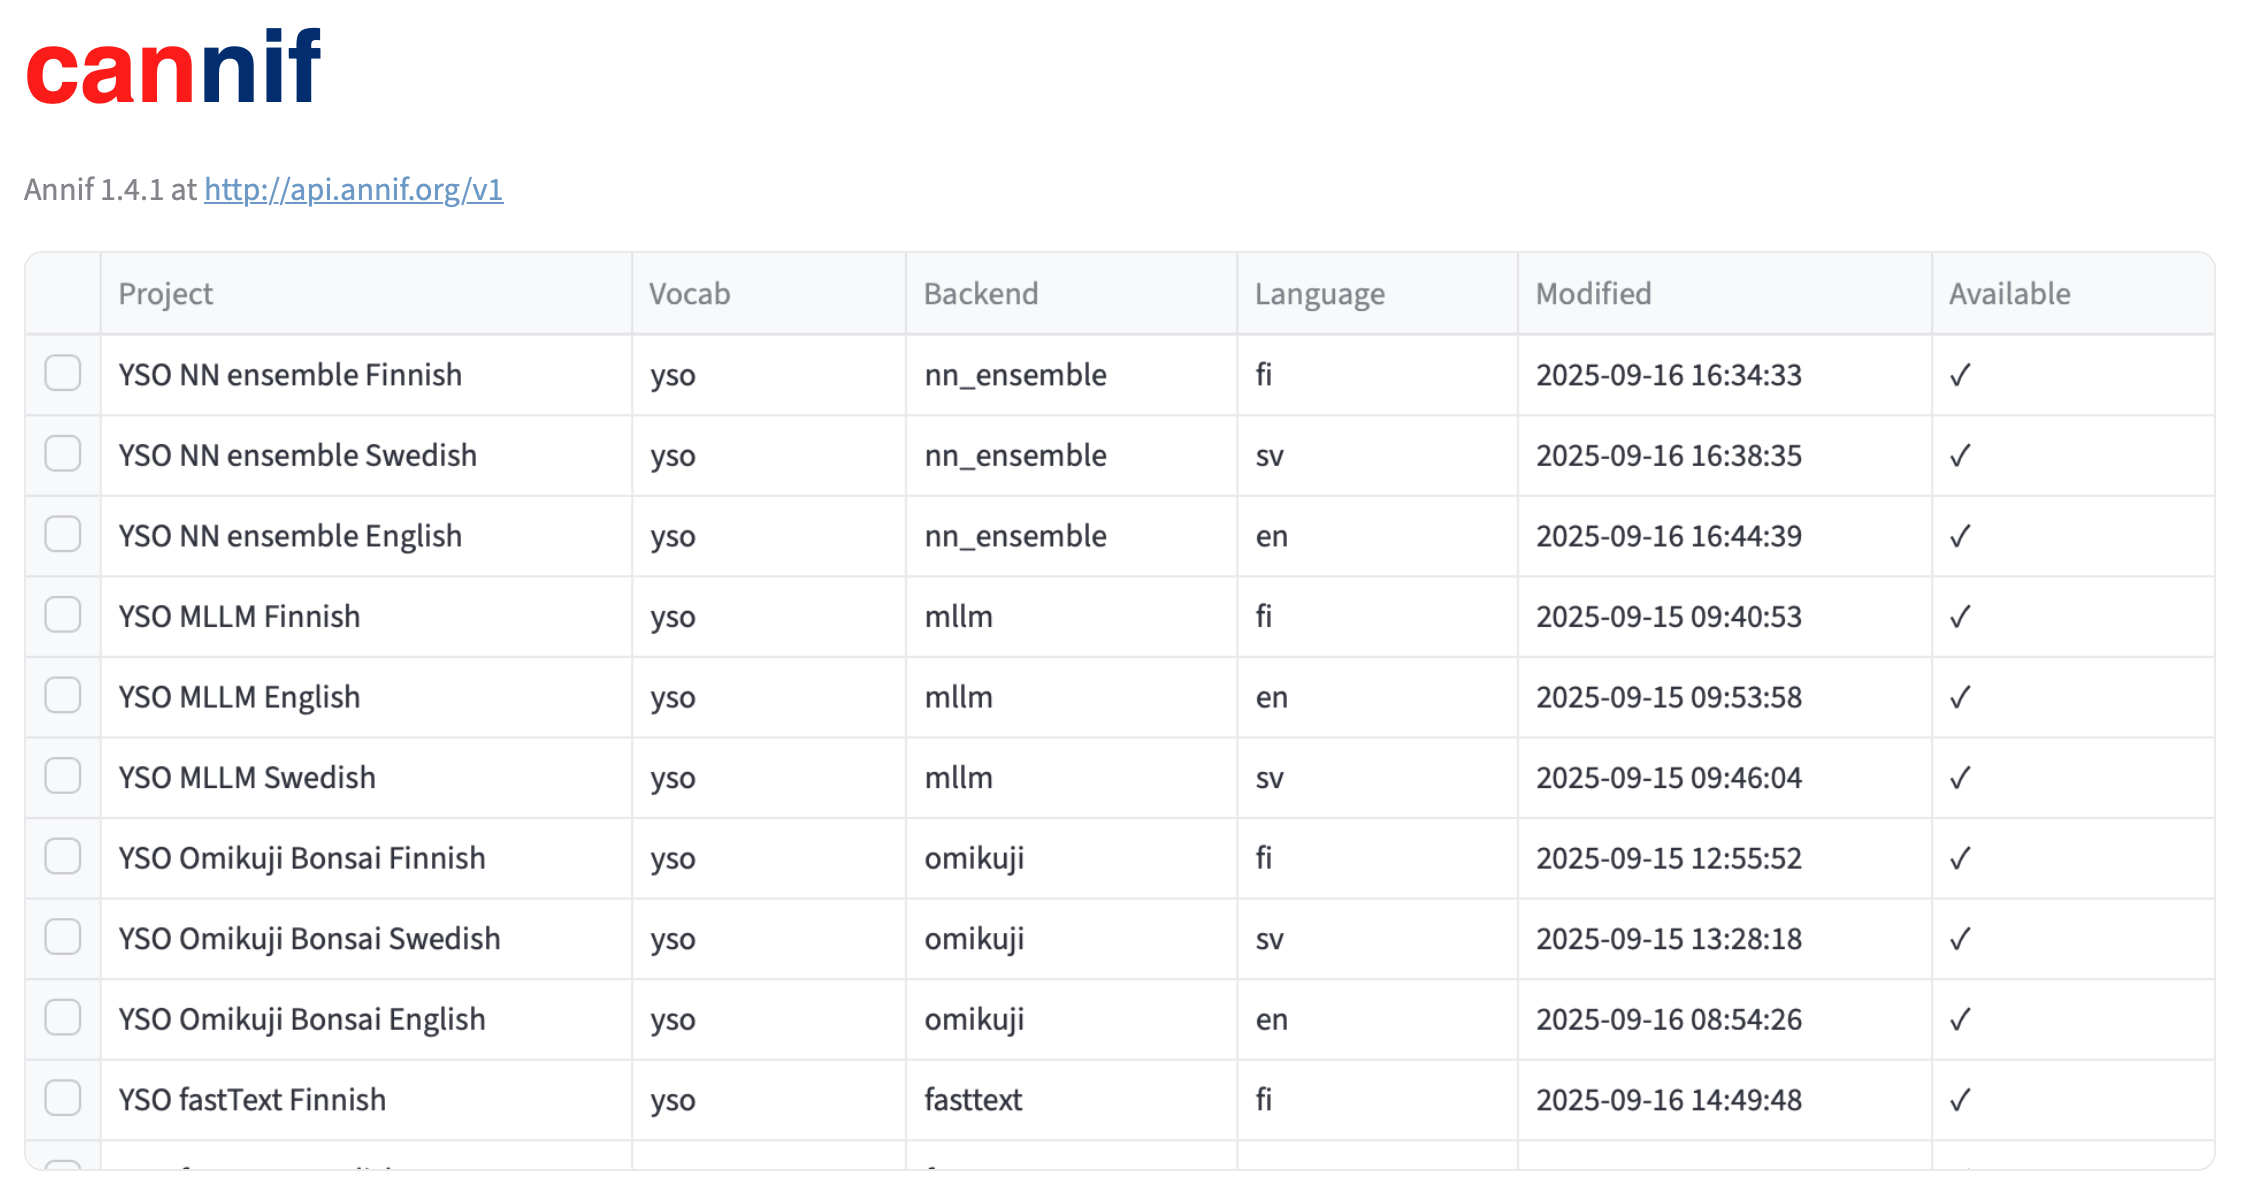
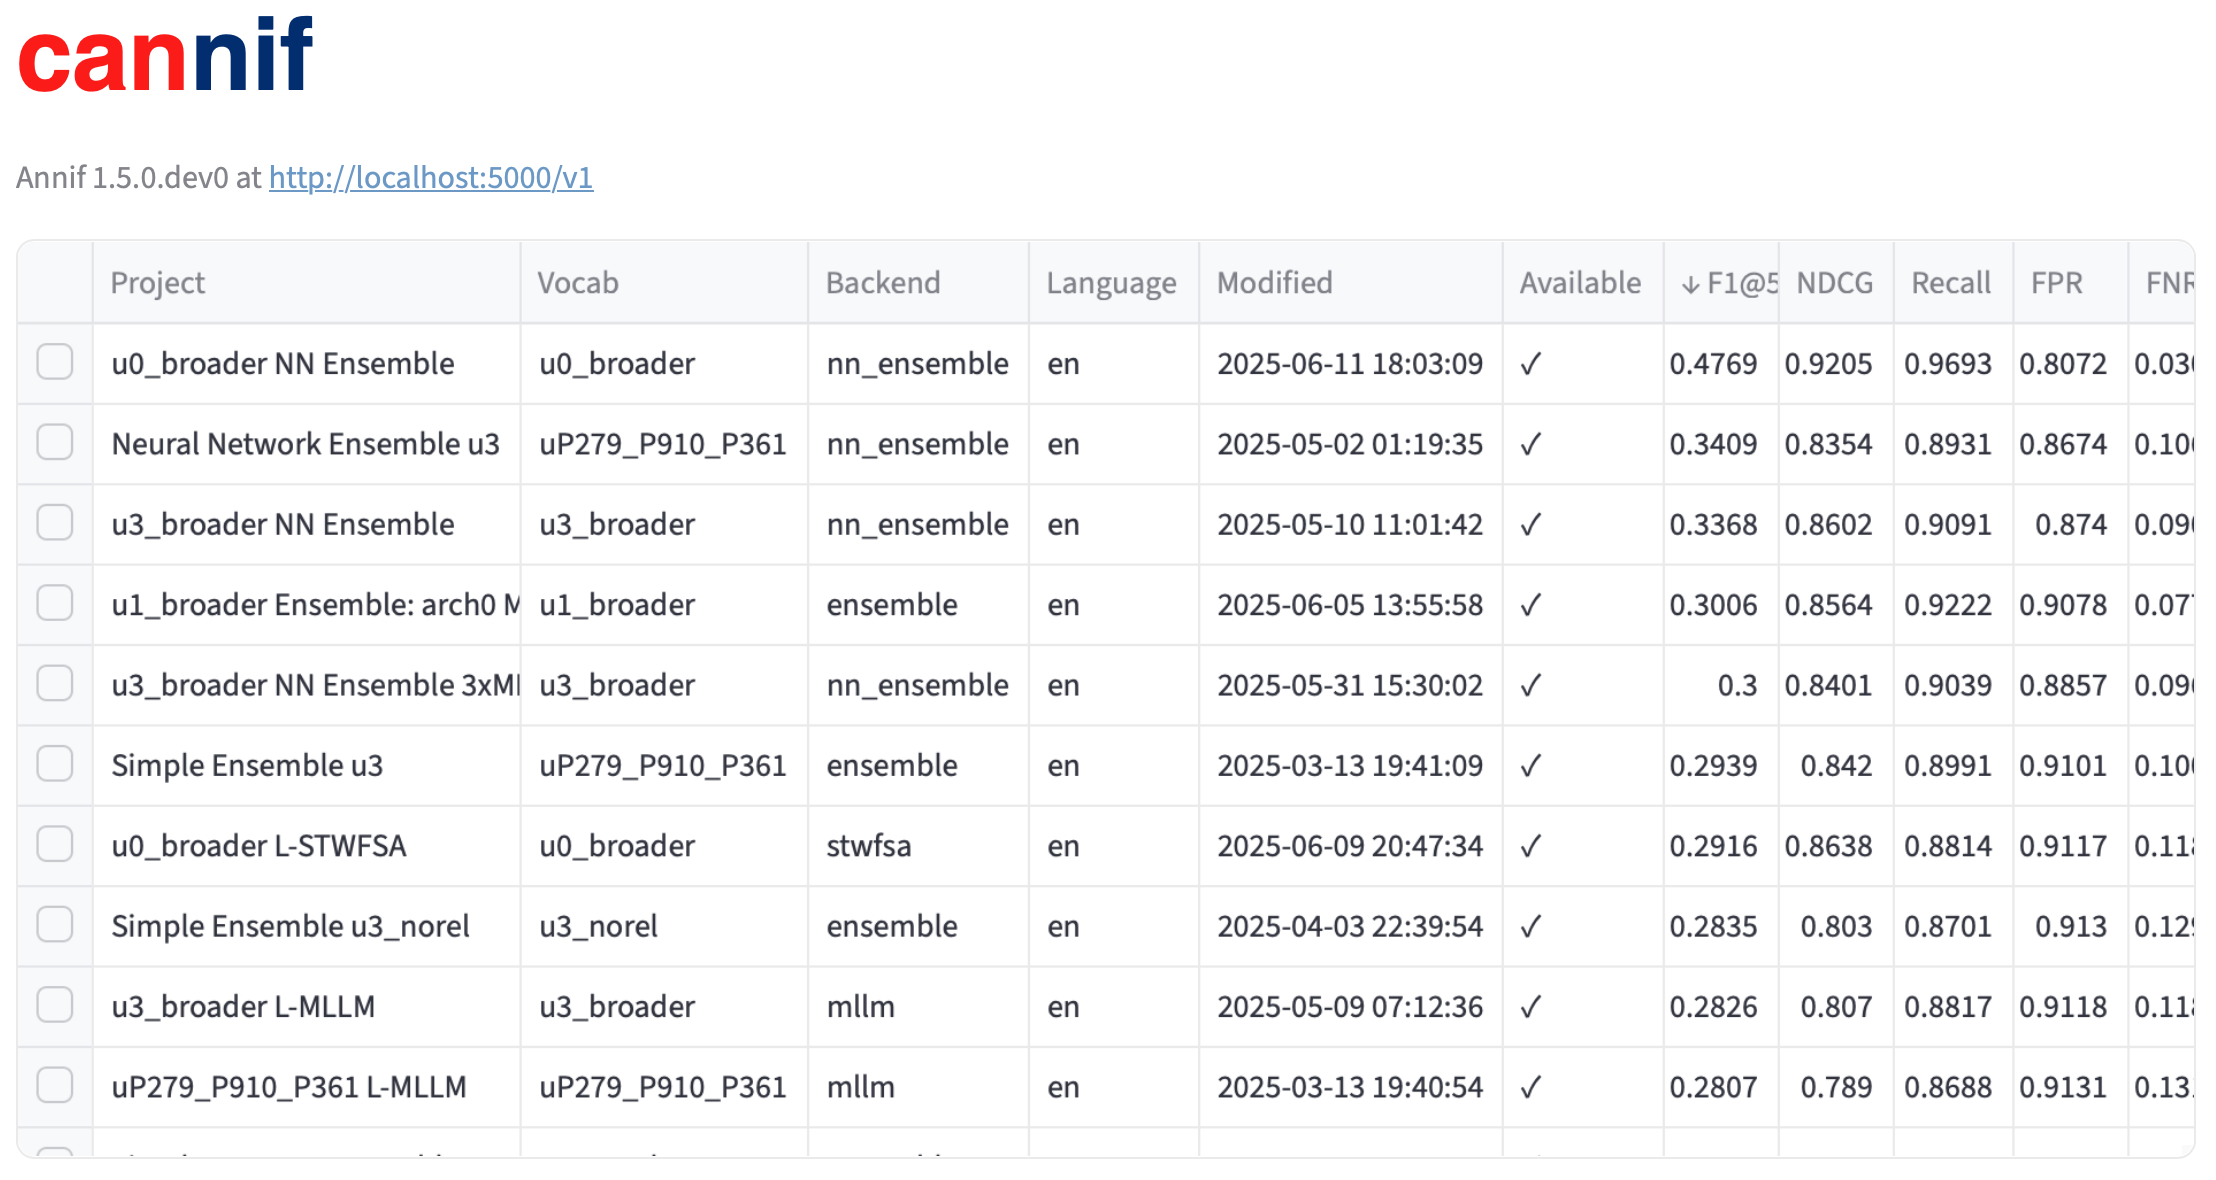
Updated README

diff --git a/cannif/cannif_streamlit.py b/cannif/cannif_streamlit.py
@@ -60,6 +60,7 @@ def get_projects():
 
         if lp := local_projects.get(project_id):
             projects[project_id].update({
+                "analyzer_spec": lp.analyzer_spec,
                 "vocab_spec": lp.vocab_spec,
                 "transform_spec": lp.transform_spec,
                 "default_params": lp.backend.DEFAULT_PARAMETERS,
@@ -170,43 +171,40 @@ def project_form(project):
     else:
         st.subheader("Not Trained", divider="red")
 
-    vocabs = get_vocabs()
-    if vocabs:
-        vocab_id = re.match(r"([^(]+)", project.get('vocab_spec')).group(1)
-        vocab_ids = [item["vocab_id"] for item in vocabs if "vocab_id" in item]
-        index = vocab_ids.index(vocab_id)
+    with st.container(border=True):
+        vocabs = get_vocabs()
+        if vocabs:
+            vocab_id = re.match(r"([^(]+)", project.get('vocab_spec')).group(1)
+            vocab_ids = [item["vocab_id"] for item in vocabs if "vocab_id" in item]
+            index = vocab_ids.index(vocab_id)
 
-        st.selectbox("**Vocab**", vocab_ids, index)
+            st.selectbox("**Vocab**", vocab_ids, index)
+            try:
+                from readable_number import ReadableNumber
+                size = ReadableNumber(vocabs[index]['size'], use_shortform=True)
+            except:
+                size = vocabs[index]['size']
+
+            st.write(f"**Terms:** {size}")
+
         try:
-            from readable_number import ReadableNumber
-            size = ReadableNumber(vocabs[index]['size'], use_shortform=True)
+            import iso639
+            lang = iso639.Language.from_part1(project.get('language')).name
         except:
-            size = vocabs[index]['size']
+            lang = project.get('language')
 
-        st.write(f"**Terms:** {size}")
+        st.write(f"**Language:** {lang}")
 
-    try:
-        import iso639
-        lang = iso639.Language.from_part1(project.get('language')).name
-    except:
-        lang = project.get('language')
+    #analyzers = ["simple", "snowball", "simplemma", "voikko", "spacy", "estnltk"]
 
-    st.write(f"**Language:** {lang}")
-    st.divider()
+    st.text_input("**Analyzer**",
+        value=project.get('analyzer_spec'),
+        key=f"{project.get('analyzer_spec')}_analyzer"
+    )
 
-    analyzers = ["simple", "snowball", "simplemma", "voikko", "spacy", "estnltk"]
-    try:
-        # Find index in list (handle case if not found)
-        analyzer = project.analyzer_spec.split('(')[0]
-        index = analyzers.index(analyzer)
-    except:
-        index = None
-    
-    st.selectbox("**Analyzer**", analyzers, index)
-    
     st.text_input("**Transform:**",
         value=project.get('transform_spec'),
-        key=f"{project.get('project_id')}_transform"
+        key=f"{project.get('transform_spec')}_transform"
     )
 
     if modtime := project.get('modification_time'):

diff --git a/cannif/README.md b/cannif/README.md
@@ -9,8 +9,6 @@ Cannif is a web GUI for the [Annif toolkit](https://annif.org). It provides:
 
 It is a pretty small script built using [Streamlit](https://streamlit.io).
 
-Because Streamlit apps are just regular Python scripts, cannif can also interact with a local copy of Annif directly, potentially providing full functionality.  However, cannif is a development tool and as such, should be used with caution when executing actions that modify data.
-
 ## why
 
 For Annif installations of a few projects, editing projects by hand and managing them isn't too much work.  However, for cases where there are tens of projects or more, it quickly becomes onerous.  Additionally, gathering the output of dozens of evaluations and keeping them organized can be a pain.  These things aren't the job of Annif, so cannif was created.
@@ -24,8 +22,6 @@ The recommended way is to install cannif into a virtual environment.
     python3 -m venv cannif-venv
     source cannif-venv/bin/activate
     pip install annif
-    pip install python-iso639
-	pip install readable-number
     pip install streamlit
 
 Make sure Annif is running:
@@ -60,13 +56,13 @@ When connected, it presents an interactive table of projects and their details. 
 
 Depending on how and where Annif is installed on your system, the local version may not match the version at the REST API.  This is usually OK, but ideally they should be as similar as possible.
 
-Cannif looks for project information in the default location, `projects.d`.  If cannif is run from the Annif root folder, it will use the projects defined there.  I like to run it from its own folder, with a symlink to `Annif/projects.d`.
+Cannif looks for project information in the default location, `projects.d`.  If cannif is run from the `Annif` folder, it will use the projects defined there.  I like to run it from its own folder, with a symlink to `Annif/projects.d`.
 
 When you select a project in the table, details about that project and its backend appear below the table.
 
 ![a screenshot](https://github.com/mjsuhonos/Annif-corpora/blob/master/cannif/project.png?raw=true)
 
-Cannif looks for evaluation information in the `data/eval` directory.  JSON files in the Annif `--metrics-file` format will be used if they match the name of a project_id.  When metrics are available, they are displayed in both the project table and in a series of charts.
+Cannif looks for evaluation information in the `data/eval` directory.  JSON files in the Annif `--metrics-file` format will be used if they match the name of a project_id.  When metrics are available, they are displayed in both the project details and in a series of comparative charts.
 
 ![a screenshot](https://github.com/mjsuhonos/Annif-corpora/blob/master/cannif/metrics.png?raw=true)
 
@@ -77,7 +73,6 @@ Cannif doesn't do some things yet, but they are being developed:
 - load vocabularies
 - create new projects
 - drag-and-drop file upload for training and evaluation
-- more interactive evaluation results
 - split-ensemble creation for reduced memory during training
 
 If you have any other ideas for how to improve cannif, get in touch or submit a pull request!
